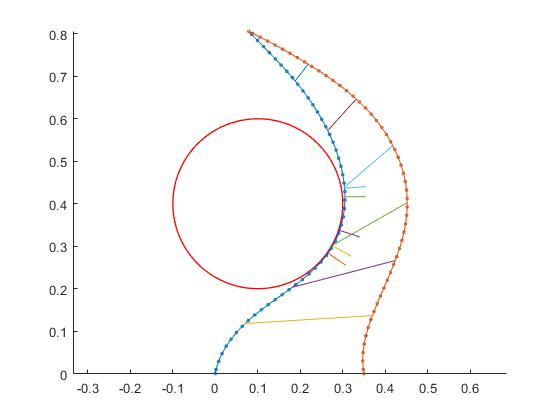
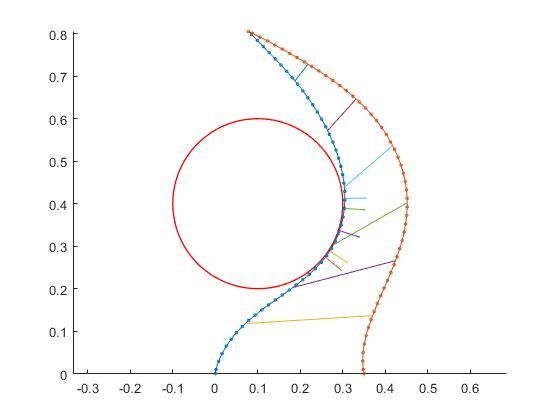
fixed some bugs

diff --git a/Kinetostatics/tri/finray_force.m b/Kinetostatics/tri/finray_force.m
@@ -230,7 +230,7 @@ classdef finray_force < handle
                         obj.A_force_array(i).update;
                         pk_Fi=obj.A_force_array(i).pe;
                         
-                        L_tail=obj.A_force_ratio(i,2)*obj.LA-obj.A_force_array(i).Ltotal;
+                        L_tail=obj.A_force_ratio(i,2)*obj.LA-(obj.A_force_array(i).Ltotal-obj.RodA.seg_length/2);
                         obj.A_force_array(i).F=[obj.A_force_index(i,1)*sin(pk_Fi(3));-obj.A_force_index(i,1)*cos(pk_Fi(3));-(L_tail-obj.A_force_array(i).seg_length/2)*obj.A_force_index(i,1)];
                         obj.A_force_array(i).update;
                         
@@ -256,7 +256,7 @@ classdef finray_force < handle
                         obj.B_force_array(i).update;
                         pk_Fi=obj.B_force_array(i).pe;
                         
-                        L_tail=obj.B_force_ratio(i,2)*obj.LB-obj.B_force_array(i).Ltotal;
+                        L_tail=obj.B_force_ratio(i,2)*obj.LB-(obj.B_force_array(i).Ltotal-obj.RodB.seg_length/2);
                         obj.B_force_array(i).F=[-obj.B_force_index(i,1)*sin(pk_Fi(3));obj.B_force_index(i,1)*cos(pk_Fi(3));(L_tail-obj.B_force_array(i).seg_length/2)*obj.B_force_index(i,1)];
                         obj.B_force_array(i).update;
                         
@@ -356,7 +356,7 @@ classdef finray_force < handle
                         obj.A_force_array(i).update;
                         pk_Fi=obj.A_force_array(i).pe;
 
-                        L_tail=obj.A_force_ratio(i,2)*obj.LA-obj.A_force_array(i).Ltotal;
+                        L_tail=obj.A_force_ratio(i,2)*obj.LA-(obj.A_force_array(i).Ltotal-obj.RodA.seg_length/2);
                         obj.A_force_array(i).F=[obj.A_force_index(i,1)*sin(pk_Fi(3));-obj.A_force_index(i,1)*cos(pk_Fi(3));-(L_tail-obj.A_force_array(i).seg_length/2)*obj.A_force_index(i,1)];
                         obj.A_force_array(i).update;
                         
@@ -382,7 +382,7 @@ classdef finray_force < handle
                         obj.B_force_array(i).update;
                         pk_Fi=obj.B_force_array(i).pe;
                        
-                        L_tail=obj.B_force_ratio(i,2)*obj.LB-obj.B_force_array(i).Ltotal;
+                        L_tail=obj.B_force_ratio(i,2)*obj.LB-(obj.B_force_array(i).Ltotal-obj.RodB.seg_length/2);
                         obj.B_force_array(i).F=[-obj.B_force_index(i,1)*sin(pk_Fi(3));obj.B_force_index(i,1)*cos(pk_Fi(3));(L_tail-obj.B_force_array(i).seg_length/2)*obj.B_force_index(i,1)];
                         obj.B_force_array(i).update;
                         
@@ -450,9 +450,9 @@ classdef finray_force < handle
                     obj.A_force_array(i).cal_pe;
                     
                     pka=obj.A_force_array(i).pe;
-                    L_tail=obj.A_force_ratio(1,2)*obj.LA-obj.A_force_array(1).Ltotal;
-                    pka(1)=pka(1)-obj.A_force_array(1).seg_length*cos(sum(obj.A_force_array(1).theta))/2+L_tail*cos(sum(obj.A_force_array(1).theta));
-                    pka(2)=pka(2)-obj.A_force_array(1).seg_length*sin(sum(obj.A_force_array(1).theta))/2+L_tail*sin(sum(obj.A_force_array(1).theta));
+                    L_tail=obj.A_force_ratio(i,2)*obj.LA-(obj.A_force_array(i).Ltotal-obj.RodA.seg_length/2);
+                    pka(1)=pka(1)-obj.A_force_array(i).seg_length*cos(sum(obj.A_force_array(i).theta))/2+L_tail*cos(sum(obj.A_force_array(i).theta));
+                    pka(2)=pka(2)-obj.A_force_array(i).seg_length*sin(sum(obj.A_force_array(i).theta))/2+L_tail*sin(sum(obj.A_force_array(i).theta));
                     PA(1)=pka(1)*cos(obj.pA(3))-pka(2)*sin(obj.pA(3))+obj.pA(1);
                     PA(2)=pka(1)*sin(obj.pA(3))+pka(2)*cos(obj.pA(3))+obj.pA(2);
                     
@@ -469,9 +469,9 @@ classdef finray_force < handle
                     obj.B_force_array(i).cal_pe;
                     
                     pkb=obj.B_force_array(i).pe;
-                    L_tail=obj.B_force_ratio(1,2)*obj.LB-obj.B_force_array(1).Ltotal;
-                    pkb(1)=pkb(1)-obj.B_force_array(1).seg_length*cos(sum(obj.B_force_array(1).theta))/2+L_tail*cos(sum(obj.B_force_array(1).theta));
-                    pkb(2)=pkb(2)-obj.B_force_array(1).seg_length*sin(sum(obj.B_force_array(1).theta))/2+L_tail*sin(sum(obj.B_force_array(1).theta));
+                    L_tail=obj.B_force_ratio(i,2)*obj.LB-(obj.B_force_array(i).Ltotal-obj.RodB.seg_length/2);
+                    pkb(1)=pkb(1)-obj.B_force_array(i).seg_length*cos(sum(obj.B_force_array(i).theta))/2+L_tail*cos(sum(obj.B_force_array(i).theta));
+                    pkb(2)=pkb(2)-obj.B_force_array(i).seg_length*sin(sum(obj.B_force_array(i).theta))/2+L_tail*sin(sum(obj.B_force_array(i).theta));
                     PB(1)=pkb(1)*cos(obj.pB(3))-pkb(2)*sin(obj.pB(3))+obj.pB(1);
                     PB(2)=pkb(1)*sin(obj.pB(3))+pkb(2)*cos(obj.pB(3))+obj.pB(2);
                     

diff --git a/Kinetostatics/tri/demo25.m b/Kinetostatics/tri/demo25.m
@@ -251,7 +251,7 @@ function r=myfunc(tangent_var,center_x,center_y,radius)
     Finray1.A_force_array(1).cal_pe;
 
     pka=Finray1.A_force_array(1).pe;
-    L_tail=Finray1.A_force_ratio(1,2)*Finray1.LA-Finray1.A_force_array(1).Ltotal;
+    L_tail=Finray1.A_force_ratio(1,2)*Finray1.LA-(Finray1.A_force_array(1).Ltotal-Finray1.RodA.seg_length);
     pka(1)=pka(1)-Finray1.A_force_array(1).seg_length*cos(sum(Finray1.A_force_array(1).theta))/2+L_tail*cos(sum(Finray1.A_force_array(1).theta));
     pka(2)=pka(2)-Finray1.A_force_array(1).seg_length*sin(sum(Finray1.A_force_array(1).theta))/2+L_tail*sin(sum(Finray1.A_force_array(1).theta));
     
@@ -265,7 +265,7 @@ function r=myfunc(tangent_var,center_x,center_y,radius)
     Finray1.A_force_array(2).cal_pe;
 
     pka2=Finray1.A_force_array(2).pe;
-    L_tail=Finray1.A_force_ratio(2,2)*Finray1.LA-Finray1.A_force_array(2).Ltotal;
+    L_tail=Finray1.A_force_ratio(2,2)*Finray1.LA-(Finray1.A_force_array(2).Ltotal-Finray1.RodA.seg_length);
     pka2(1)=pka2(1)-Finray1.A_force_array(2).seg_length*cos(sum(Finray1.A_force_array(2).theta))/2+L_tail*cos(sum(Finray1.A_force_array(2).theta));
     pka2(2)=pka2(2)-Finray1.A_force_array(2).seg_length*sin(sum(Finray1.A_force_array(2).theta))/2+L_tail*sin(sum(Finray1.A_force_array(2).theta));
     

diff --git a/Kinetostatics/tri/demo26.m b/Kinetostatics/tri/demo26.m
@@ -17,7 +17,7 @@ clc
 
 L0=1;
 
-radius=0.1*L0;
+radius=0.2*L0;
 center_x=0.1*L0;
 center_y=0.4*L0;
 
@@ -290,7 +290,7 @@ function r=myfunc(tangent_var,center_x,center_y,radius)
         Finray1.A_force_array(i).cal_pe;
 
         pka=Finray1.A_force_array(i).pe;
-        L_tail=Finray1.A_force_ratio(i,2)*Finray1.LA-Finray1.A_force_array(i).Ltotal;
+        L_tail=Finray1.A_force_ratio(i,2)*Finray1.LA-(Finray1.A_force_array(i).Ltotal-Finray1.A_force_array(i).seg_length/2);
         pka(1)=pka(1)-Finray1.A_force_array(i).seg_length*cos(sum(Finray1.A_force_array(i).theta))/2+L_tail*cos(sum(Finray1.A_force_array(i).theta));
         pka(2)=pka(2)-Finray1.A_force_array(i).seg_length*sin(sum(Finray1.A_force_array(i).theta))/2+L_tail*sin(sum(Finray1.A_force_array(i).theta));
 

diff --git a/Kinetostatics/tri/demo17_4.m b/Kinetostatics/tri/demo17_4.m
@@ -151,7 +151,7 @@ function r=myfunc(tangent_var,delta,center_x,center_y,radius)
     Finray1.A_force_array(1).cal_pe;
 
     pka=Finray1.A_force_array(1).pe;
-    L_tail=Finray1.A_force_ratio(1,2)*Finray1.LA-Finray1.A_force_array(1).Ltotal;
+    L_tail=Finray1.A_force_ratio(1,2)*Finray1.LA-(Finray1.A_force_array(1).Ltotal-Finray1.A_force_array(1).seg_length/2);
     pka(1)=pka(1)-Finray1.A_force_array(1).seg_length*cos(sum(Finray1.A_force_array(1).theta))/2+L_tail*cos(sum(Finray1.A_force_array(1).theta));
     pka(2)=pka(2)-Finray1.A_force_array(1).seg_length*sin(sum(Finray1.A_force_array(1).theta))/2+L_tail*sin(sum(Finray1.A_force_array(1).theta));
     
